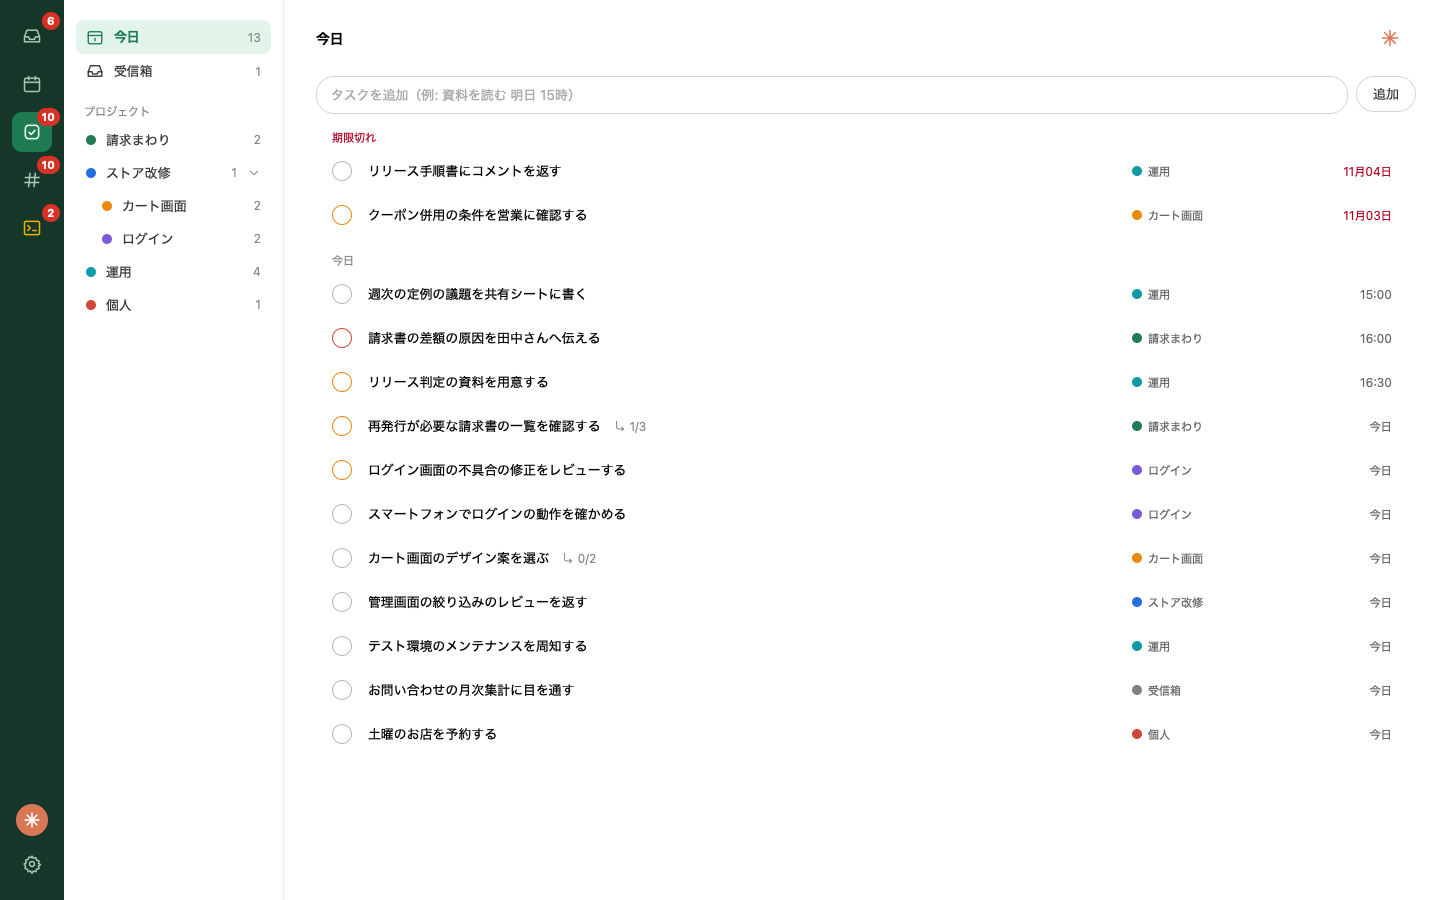
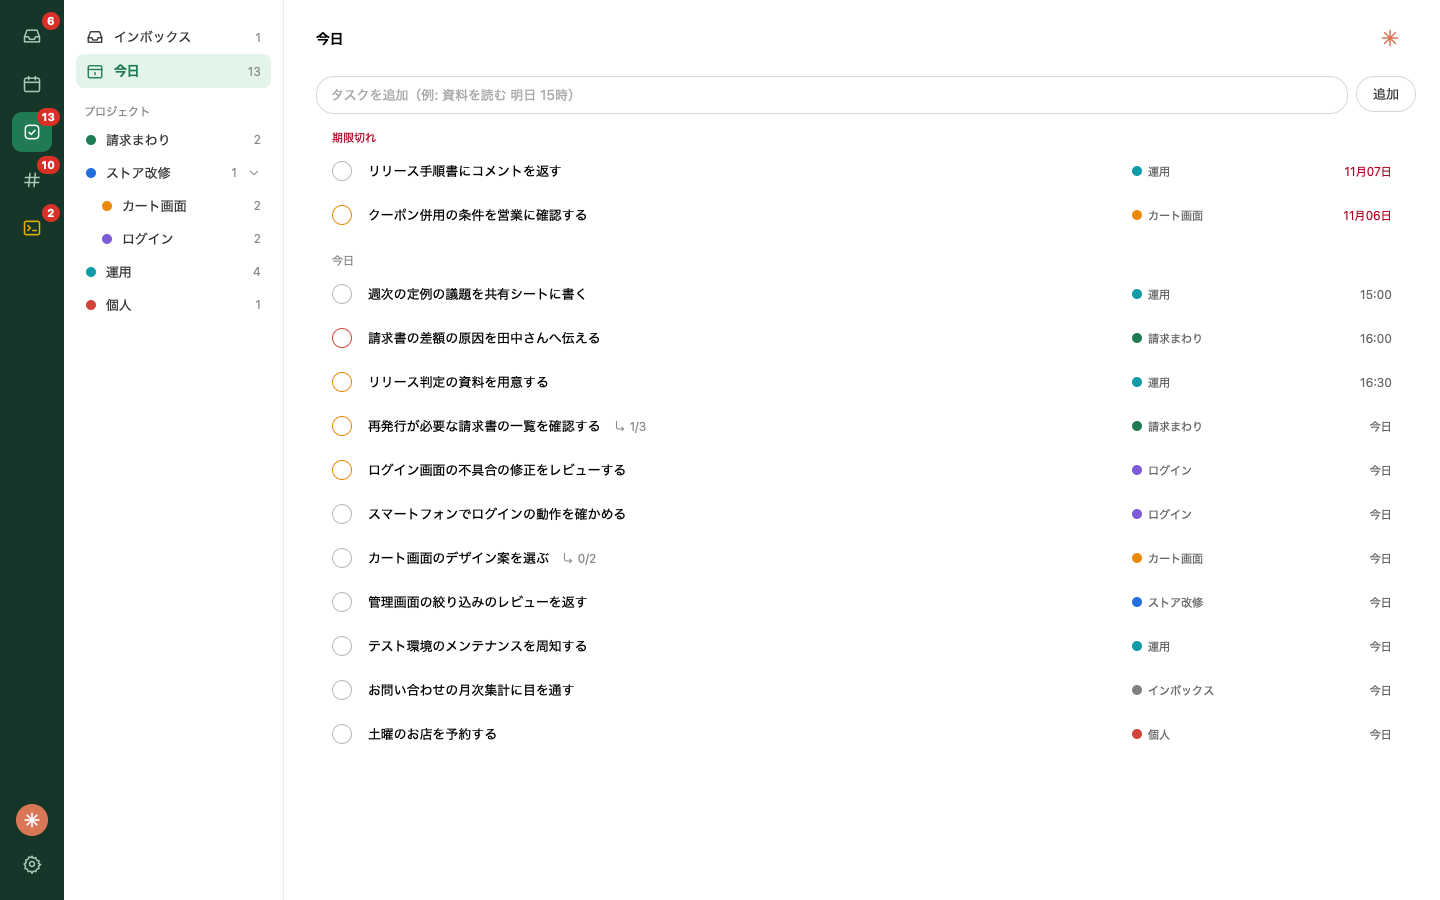
docs: v0.53.1 の CHANGELOG、機能一覧、README の Todo の写真を書く
This commit is v0.53.1.

Changed region(s): [[0.0312, 0.0, 0.1875, 0.1244], [0.7812, 0.7467, 0.8438, 0.7778], [0.9375, 0.1867, 0.9688, 0.2178]]

diff --git a/docs/features.md b/docs/features.md
@@ -11,7 +11,7 @@ title: 機能
 - スレッドをアーカイブする・ゴミ箱へ移動する（詳細画面のボタン、または一覧の行にマウスを乗せると出るボタン）。直前の 1 件は Cmd+Z（Windows では Ctrl+Z）かお知らせの「元に戻す」で戻せる
 - 一覧のチェックボックスで、スレッドを既読・未読にする（未読の行には緑の点が付く）。一覧の上のヘッダーの「すべて既読にする」で、一覧に出ている未読のスレッドをまとめて既読にでき（最大 4 件ずつ送る。失敗した行は未読に戻してエラーを出す）、通知の「元に戻す」で未読に戻せる
 - サイドメニューのアカウントのアイコンから、そのアカウントを cookapps から削除する（Google 側のアクセス権も取り消す。Gmail のメールは消えない）
-- 約 10 秒ごとに受信トレイを Gmail と同期し、新着や他の端末での既読化・アーカイブを自動で反映する。一覧の上のヘッダーに「受信トレイ」と「すべて既読にする」が付き（スクロールしても残る）、再読み込みのボタンは無い。読み込みに失敗したときは、前の読み込みから 60 秒たつと自動で読み直し、続けて失敗するたびに間隔を倍にする（最長 5 分）。スレッドを開いている間に再ログインが必要になったときは、次の同期で一覧を読み直す
+- 約 10 秒ごとに受信トレイを Gmail と同期し、新着や他の端末での既読化・アーカイブを自動で反映する。一覧の上のヘッダーに「受信トレイ」と「すべて既読にする」が付き（スクロールしても残る）。最初の読み込みが返るまでは「読み込んでいます…」、スレッドが 0 件のときは「受信トレイにスレッドはありません」を出す。読み込みに失敗したときは、一覧の上に「読み込めませんでした: …。自動でも読み直します」と「再読み込み」のボタンを出し（前の一覧があるときは一覧を残す。別の画面へ移って戻っても残り、次の読み込みが成功すると消える）、前の読み込みから 60 秒たつと自動で読み直し、続けて失敗するたびに間隔を倍にする（最長 5 分）。スレッドを開いている間に再ログインが必要になったときは、次の同期で一覧を読み直す
 - 同期で新着のメールが見つかると、ウィンドウの右下にカードを出す（差出人と件名、ゴミ箱へ移動・アーカイブ・詳細を開くのボタン。詳細を開くは他の画面からでもそのスレッドに移る。カードは最大 3 枚で、10 秒で消える（マウスやフォーカスが乗っている間は残る）。起動時の読み込みでは出さず、OS の通知も使わない）
 - 未読のスレッドの件数を、サイドメニューの受信トレイのボタンに表示する（0 件のときは消える。macOS の Dock のアイコンのバッジには、この件数と、Todo の期限が来た未完了の件数の合計を表示する。期限の時刻が過ぎるとウィンドウが隠れていても自動で増える）
 - 設定は「Google」「カレンダー」「Todoist」「Slack」「Claude」「Orca」「アップデート」の 7 つのタブに分かれ、開くと Google のタブが出る。「設定」の見出しとタブは、カードをスクロールしても上に残る

diff --git a/CHANGELOG.md b/CHANGELOG.md
@@ -3,6 +3,11 @@
 The newest version comes first.
 The project was named cookup until v0.14.6.
 
+## v0.53.1
+
+The inbox shows its state above the rows: 「読み込んでいます…」 until the first load answers, 「受信トレイにスレッドはありません」 when there is no thread, and, when a load fails, one line with the error and the button 「再読み込み」, which is there only then (#139). The rows already drawn stay under the line, and the failure stays when another screen is shown, until a load succeeds.
+In the Todo screen, Todoist's inbox comes first in the list on the left, above 「今日」, and is named 「インボックス」 (#196).
+
 ## v0.53.0
 
 A-17: the Orca work pane splits into panes, side by side or one above the other, with no limit on their number (#191). The right-click menu of a tab has 「右に分割」 and 「下に分割」, and a tab dragged to the edge of another pane splits it there, or joins that pane when dropped on its tab bar or middle. Each pane has its own tabs and plus, and a pane left with no tab closes. The split is saved for each project in `orca-panes.json` and comes back when the project is opened again.
